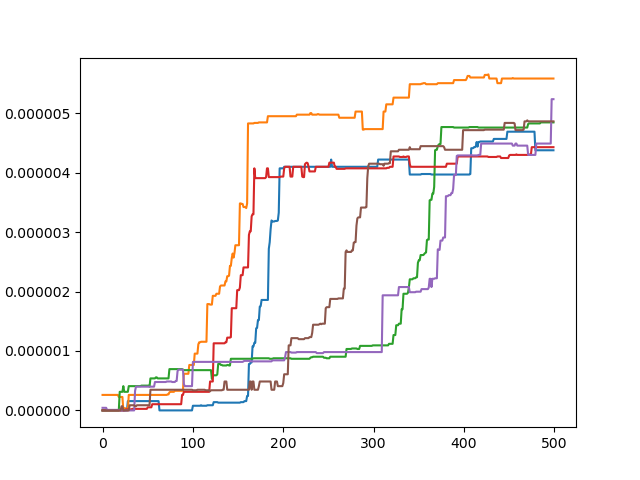
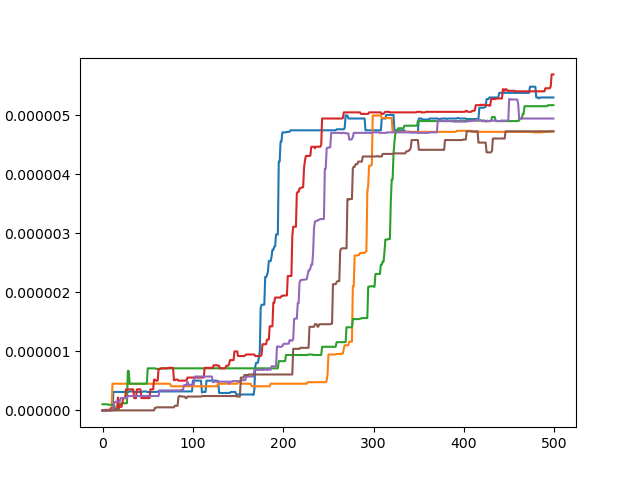
files

diff --git a/ba.tex b/ba.tex
@@ -1,4 +1,4 @@
-% Created 2019-10-18 Fr 21:05
+% Created 2019-10-18 Fr 22:23
 % Intended LaTeX compiler: pdflatex
 \documentclass[page,pdftex,12pt,a4paper,twoside,openright]{scrbook}
 \usepackage[utf8]{inputenc}
@@ -54,19 +54,21 @@
 
 
 \chapter{Einleitung \label{sec-einleitung}}
-\label{sec:orgdcfba1e}
+\label{sec:org86396b0}
 Durch den allgemeine Anstieg der Weltbevölkerung, den demographischen Wandel und die steigende Lebenserwartung wird eine Zunahme von Krankheiten wie Krebs oder Diabetes erwartet \cite{bray_global_2018,zhou_worldwide_2016}. Um dieser Entwicklung entgegen zu wirken, werden kostengünstige, patientennahe Diagnoseprozesse für die Individualmedizin entwickelt. So können bereits früh Krankheitsanzeichen und -ursachen entdeckt und bekämpft werden.
 
 Neuartigen Analysesystemen wie \emph{Lab-on-a-Chip} (LOC) werden deswegen großes Potential für Biomedizin und Medizindiagnostik in der Zukunft zugesprochen. Durch Miniaturisierung der Chips ergeben sich viele Vorteile \cite{stone_microfluidics_2001,knight_honey_2002}.
 Möglich sind unter anderem Biochips zur Analyse und Detektion von bestimmten Molekülen \cite{papadea_evaluation_2002}, Zellen (beispielsweise T-Zellen für die HIV/AIDS-Diagnostik \cite{cheng_microchip_2007}), Protein- und Molekülmarkern \cite{wang_self-powered_2010}, sowie DNA/RNA-Analysen (z.B. Identifizierung von resistenten Pathogenen \cite{boehme_rapid_2010}). Es können bereits geringe Probenvolumina innerhalb kürzester Zeit analysiert werden und es werden nur geringe Mengen von Reagenzien benötigt \cite{chin_commercialization_2012}. So können relativ kostengünstige Biochips und Analyseverfahren entwickelt werden, um zum Beispiel auch in Schwellen- und Entwicklungsländern die medizinische Versorgung zu verbessern. Ein wichtiger Bestandteil dieser LOCs ist Transport und Separation der Analyte innerhalb des Chips. Hier hat sich die Nutzung von magnetischen Partikeln bewährt. Verschiedene mikromagnetische Oberflächenstrukturierungen machen dabei den gezielten Transport der Partikel möglich \cite{rampini_micromagnet_2016}.  
 
 Das in der Arbeitsgruppe \textsc{Ehresmann} etablierte Transportkonzept von superparamagnetischen Partikeln (SPP) oberhalb magnetisch strukturierter \emph{Exchange-Bias} (EB) Dünnschichtsysteme kann hierbei ein wichtiger Bestandteil zukünftiger Analysesysteme werden. Die Grundidee ist es durch ein extern angelegtes Magnetfeld die magnetische Feldlandschaft (MFL) eines künstlichen Domänenmusters so zu transformieren, dass ein gerichteter Transport der SPP zwischen \emph{head-to-head} und \emph{tail-to-tail}-Domänenwänden möglich wird; dabei können diese SPP in verschiedenen Prozessschritten eines LOCs verwendet werden. Einerseits können Analyte, die an Partikel gebunden sind, in bestimmte Analysebereiche transportiert werden \cite{ehresmann_asymmetric_2011}, andererseits können aber auch Strömungsfelder durch den Partikeltransport erzeugt werden, welche die Analyten und Reagenzien durchmischen und so höhere biochemische Reaktionsraten bewirken \cite{holzinger_controlled_2012}. Ein weiteres Anwendungsgebiet ist die magnetophoretische Auftrennung der Partikel, um so verschiedene Partikelgrößen aufgrund unterschiedlicher magnetophoretischer Mobilitäten voneinander trennen zu können, damit zum Beispiel möglichst homogene Partikeldispersionen für Analysen erreicht werden können \cite{zhou_magnetic_2016}. Für jede dieser Anwendungen werden verschiedene Formen eines externen Magnetfeldes benötigt. Bisher wurden für den Partikeltransport trapezförmige Magnetfeldsequenzen mit konstanten Änderungsraten verwendet. In dieser Arbeit soll der Einfluss der Änderungsrate auf die Transportgeschwindigkeit und Trajektorie der Partikel genauer betrachtet werden, um Optimierungen bezüglich des Partikeltransports für das jeweilige Anwendungsgebiet möglich zu machen.
+Außerdem sollten in der Arbeitsgruppe entwickelte Auswertungs-\cite{holzinger_pythonscript_nodate} und Simulationsskripte \cite{holzinger_pythonscript_nodate-1} verwendet werden, um die Funktionalität dieser zu überprüfen. Es sollte auch ein neues Programm geschrieben werden, um die benötigten externen Magnetfeldsequenzen komfortabel generieren zu können. Während der Entwicklung dieses Programmes wurde deutlich, dass auch die Helmholtzspulen des Experimentaufbaus charakterisiert werden sollten, um zu überprüfen, wie genau diese mit den genäherten Annahmen der Theorie übereinstimmen.
+
 \chapter{Theoretische Grundlagen \label{sec-grundlagen}}
-\label{sec:orgf9f05db}
+\label{sec:orgf8fecb2}
 In diesem Kapitel soll das theoretische Hintergrundwissen, welches zum Verständnis dieser Arbeit benötigt wird, vermittelt werden. Dazu wird zunächst der Elektromagnetismus eingeführt. Anschließend wird die Verbindung zum Magnetismus in Materie hergestellt. Dann werden die in dieser Arbeit verwendeten \emph{Exchange Bias Systeme} eingeführt und im nächsten Teil wird schließlich der Transport von superparamagnetischen Partikeln über eben jene \emph{Exchange Bias Systeme} beschrieben, wobei die auf sie wirkenden Kräfte genauer betrachtet werden sollen.
 
 \section{Elektromagnetismus \label{sec-elektromagnetismus}}
-\label{sec:org420c26c}
+\label{sec:org4fe9030}
 Allgemein gilt, dass bewegte Ladungsträger (Ströme) ein Magnetfeld erzeugen. Fließt zum Beispiel ein Strom \(I\) durch einen langen geraden Draht, erzeugt dies ein kreisförmiges Magnetfeld. Entlang der Stromrichtung ergibt sich eine Rechtsschraube für das Magnetfeld B. Eine Spule besteht aus mehreren Windungen stromdurchflossenen Drahtes und erzeugt so durch Überlagerung ein Magnetfeld ähnlich eines Stabmagneten mit Nord- und Südpol. Die Magnetische Flussdichte \(B\) im Vakuum hängt dabei von Stromstärke \(I\) und Windungsdichte \(n = \frac{N}{L}\) (Windungen pro Länge) ab. Hierbei ist \(\mu_\mathrm{0}\) die magnetische Feldkonstante \cite{demtroder_experimentalphysik_2017}:
 
 \begin{equation}
@@ -75,7 +77,7 @@ B = \mu_{\mathrm{0}} \cdot n \cdot I .
 \end{equation}
 
 \subsection{Helmholtzspulen}
-\label{sec:org6cec4da}
+\label{sec:org123a77a}
 Für den Partikeltransport wird ein äußeres magnetisches Feld mit Hilfe von Helmholtzspulen erzeugt. Eine Helmholtzspule besteht aus zwei parallelen Ringspulen in Reihe. Diese erzeugen ein homogenes Magnetfeld in ihrem Inneren, wenn die Helmholtz-Bedingung erfüllt ist, d.h. Radius und Abstand der Teilspulen gleich sind. Die Flussdichte dieses Magnetfeldes hängt in Näherung von der Stromstärke \(I\), der Windungszahl pro Spule \(N\) und dem Radius einer einzelnen Spule \(r\) ab \cite{raith_elektromagnetismus_2006}: 
 
 \begin{equation}
@@ -84,7 +86,7 @@ B = \left(\frac{4}{5}\right)^{\frac{3}{2}} \cdot \mu_{\mathrm{0}} \cdot \frac{N 
 \end{equation}
 
 \section{Spulen als elektrische Bauteile \label{sec-spulen}}
-\label{sec:org5ba1f31}
+\label{sec:org8bf5948}
 Beim Anlegen einer Spannung an eine Spule, wird innerhalb dieser eine Gegenspannung induziert. Hierbei ist die induzierte Spannung
 
 \begin{equation}
@@ -137,7 +139,7 @@ Der Abschaltvorgang ist in Abbildung \ref{fig-abschalten} abgebildet.
 \end{figure}
 
 \section{Magnetismus in Materie \label{sec-magnetismus}}
-\label{sec:org040b997}
+\label{sec:org12d1271}
 Wie bereits in Kapitel \ref{sec-elektromagnetismus} erläutert, erzeugen bewegte Ladungen Magnetfelder. Eine solche bewegte Ladung ist auch das Elektron, das in einer vereinfachten Vorstellung um den Atomkern kreist. Folglich besitzen Atome ein magnetisches Moment \(\mu\), welches abhängig ist von der umkreisten Fläche \(A\) und dem Kreisstrom des Elektrons \(I\) \cite{kassing_bergmann_2005}:
 
 \begin{equation}
@@ -178,7 +180,7 @@ Festkörper können in Folge der mikroskopischen Ursachen bezüglich ihres Magne
 Im Folgenden soll näher auf diese Klassifizierungen eingegangen werden.
 
 \subsection{Dia- und Paramagnetismus \label{sec-dia-und-para}}
-\label{sec:orge529e5b}
+\label{sec:org298703c}
 Diamagnetismus ist ein magnetischer Effekt in jeglicher Materie, welcher durch induzierte magnetische Momente auftritt. In einem externen Magnetfeld wird im Atom ein magnetisches Moment induziert, welches dem induzierenden Magnetfeld entgegen wirkt (Lenzsche Regel). Ein Festkörper wird als diamagnetisch bezeichnet, wenn ohne äußeres magnetisches Feld keine magnetischen Momente vorliegen. Vor allem abgeschlossene äußere Elektronenschalen tragen zum diamagnetischen Effekt eines Atoms bei. Die Spin- und Bahnmomente der gepaarten Elektronen heben sich in Summe auf. Diamagnetische Materialien haben eine negative Suszeptibilität und werden aus dem externen Magnetfeld heraus gedrängt \cite{gross_festkorperphysik_2012}.
 
 \begin{equation}
@@ -201,7 +203,7 @@ Legt man ein äußeres Magnetfeld an, richten sich die magnetischen Momente nach
 \end{equation}
 
 \subsection{Ferromagnetismus \label{sec-ferro}}
-\label{sec:org9c46c75}
+\label{sec:org367ba02}
 Beeinflussen sich die einzelnen magnetischen Momente gegenseitig, sind sie also gekoppelt, kann das System einen magnetisch geordneten Zustand einnehmen. Dieser geordnete Zustand unterliegt jedoch einer Temperaturabhängigkeit. Eine Ursache für das Vorliegen von kollektivem Magnetismus ist die quantenmechanische \textbf{Austausch-Wechselwirkung} \cite{kassing_bergmann_2005}.
 
 Die Suszeptibilität ferromagnetischer Materialien ist um bis zu mehrere Größenordnungen größer als bei paramagnetischen Materialien \cite{demtroder_experimentalphysik_2017}.
@@ -242,16 +244,16 @@ Beim Ausrichten der magnetischen Dipole in einem ferromagnetischen Stoff wird En
 Der Festkörper kann seine ferromagnetischen Eigenschaften verlieren, wenn er über eine bestimmte, für das Material charakteristische, Temperatur \(T_\mathrm{C}\), die \textbf{Curie-Temperatur} erhitzt wird. Die Wärmebewegung zerstört dann die magnetische Ausrichtung der Dipole und der Stoff zeigt nur noch paramagnetisches Verhalten \cite{demtroder_experimentalphysik_2017}.
 
 \subsection{Antiferromagnetismus \label{sec-antiferro}}
-\label{sec:org814a56e}
+\label{sec:org87f2a40}
 In einem Antiferromagneten liegen zwei ineinander gestellte Untergitter im Kristallgitter vor. Die magnetischen Momente jener Untergitter zeigen jeweils in entgegengesetzte Richtungen und haben den gleichen Betrag. Somit heben sie sich insgesamt auf und es ist keine makroskopische Magnetisierung sichtbar. Oberhalb der \textbf{Néel-Temperatur} \(T_\mathrm{N}\), dem Analogon zur Curie-Temperatur, geht der Festkörper in den paramagnetischen Zustand über \cite{demtroder_experimentalphysik_2017}. 
 
 \subsection{Superparamagnetismus}
-\label{sec:orgac5d500}
+\label{sec:org047f970}
 Ist das Volumen eines ferromagnetischen Festkörpers so gering, dass er nur aus einer einzelnen Domäne besteht, spricht man von Superparamagnetismus. Die Suszeptibilität solcher Superparamagneten ist größer als die Suszeptibilität von Paramagneten, jedoch verhalten sie sich ohne äußeres Magnetfeld ähnlich, da die Magnetisierung in solchen einzelnen Domänen nicht thermisch stabil ist und sich beliebig ausrichten kann \cite{gross_festkorperphysik_2012}.
 Jedoch ist die Zeitskala des Experiments, und ob in dieser thermische Aktivierungs- und Relaxationsprozesse statt finden können, wichtig, um Aussagen über das magnetische Verhalten eines Partikels machen zu können. Bei ausreichend großen Zeitskalen wird über die durch thermische Energie unterschiedlichen magnetischen Momente gemittelt und man erhält insgesamt keine Magnetisierung. Wird jedoch sehr kurz gemessen, kann eine Richtung der Magnetisierung für diesen kurzen Zeitausschnitt bestimmt werden \cite{leslie-pelecky_magnetic_1996}.
 
 \section{Exchange Bias Effekt \label{sec-EB}}
-\label{sec:org8ef392f}
+\label{sec:org4ac3178}
 Der \emph{Exchange Bias} (EB) Effekt  wurde 1956 von \textsc{Meiklejohn} und \textsc{Bean} an oxidierten \ce{Co}-Partikeln entdeckt. Diese Partikel bestehen im Kern aus Cobalt, einem Ferromagneten, und besitzen eine äußere dünne \ce{CoO}-Schicht, welche antiferromagnetisch ist. Die Autoren entdeckten eine Verschiebung der Hysteresekurve um das sogenannte Austauschverschiebungsfeld \(H_\mathrm{EB}\). Diese Beobachtung kann durch den Austauschverschiebungseffekt (engl. \emph{exchange bias}) erklärt werden. Dieser tritt an der Grenzfläche zwischen antiferromagnetischer (AF) und ferromagnetischer (F) Schicht auf, wenn die Partikel innerhalb eines externen Magnetfeldes unter die Néel-Temperatur der antiferromagnetischen Schicht gekühlt wurden. \cite{meiklejohn_new_1957}.
 
 
@@ -285,7 +287,7 @@ Schematische Darstellung der ferromagnetischen Hysteresekurve eines EB-Systems i
 Durch Helium-Ionenbeschuss kann der EB-Effekt eines Schichtsystems verändert werden. So kann zum Beispiel die Richtung des Austauschverschiebungsfeldes lokal umgekehrt werden \cite{mougin_local_2001}. Hierzu kann eine Schattenmaske mittels Lithographie auf die Probe gebracht werden, um anschließend lokal das Eindringen von Ionen zu verhindern. Dies ermöglicht die magnetische Strukturierung von EB-Systemen, zum Beispiel in einer \emph{in-plane} Anisotropie, welche zu \emph{head-to-head} und \emph{tail-to-tail}-Domänenwänden in einer Streifenstruktur führt, womit wiederum Transport von superparamagnetischen Partikeln realisiert werden kann \cite{holzinger_directed_2015}.
 
 \section{Partikeltransport \label{sec-partikeltransport}}
-\label{sec:orgaa3d711}
+\label{sec:orgc017b11}
 Superparamagnetische Partikel (SPP) lassen sich durch Verwendung von den zuvor beschriebenen streifenstrukturierten (hh und tt) EB-Systemen in kontrollierten Abständen zum Substrat und in geordneter Reihenform transportieren. Dabei setzt sich das effektive Magnetfeld, das die Partikel erfahren, aus der Magnetfeldlandschaft des Exchange-Bias Systems und dem externen Magnetfeld zusammen \cite{holzinger_directed_2015}:
 
 \begin{equation}
@@ -342,10 +344,10 @@ Schematische Darstellung der wirkenden Kräfte auf ein superparamagnetisches Par
 \end{figure}
 
 \chapter{Experimentelle Methoden \label{sec-methoden}}
-\label{sec:org6a57fcc}
+\label{sec:orgca90c4e}
 
 \section{Experimenteller Aufbau \label{sec-aufbau}}
-\label{sec:orgc25a861}
+\label{sec:org427ada4}
 
 Um den Transport von superparamagnetischen Partikeln über das Substrat zu realisieren und zu beobachten, wurde der Versuchsaufbau, der in Abbildung \ref{img-aufbau} zu sehen ist, verwendet.
 
@@ -375,7 +377,7 @@ z & \num{330} & \num{0,030} & \num{11,5} & \num{70} & \num{5,6}\\
 Bei den Versuchen in dieser Arbeit wurden nur zwei der drei Helmholtzspulen verwendet. Dabei handelte es sich um die Spulen für die x- und z-Richtung. Die Partikel wurden in einer mikrofluidischen Zelle auf den Proben platziert, um dann untersucht werden zu können. Hierfür wird Parafilm zuerst in Größe der Probe zurecht geschnitten, und dann ein Rechteck im Inneren des Parafilms ausgeschnitten. So entsteht eine Aussparung in der Mitte, in die circa \SI{10}{\micro\litre} Partikelsuspension gegeben werden. Anschließend wird die Probe auf dem Probentisch platziert, die LED eingeschaltet, und die Kamera mittels Livebild auf die Partikel fokussiert.
 
 \section{Programm zur Erstellung von Magnetfeldsequenzen \label{sec-py}}
-\label{sec:org71169ee}
+\label{sec:org97dc9dc}
 Um die in dieser Arbeit benötigten externen Magnetfelder zu erzeugen, wurde ein neues Programm in Python entwickelt, mit dessen Hilfe verschiedene Wellenformen als Magnetfeld ausgegeben werden können. Hierbei stand ein modularer Ansatz im Vordergrund, weshalb durch einfache Änderungen am Programmcode andere Geräte im Aufbau verwendet werden können. So kann zum Beispiel ein anderes Netzteil verwendet werden, um dann auch drei Helmholtzspulen für Magnetfelder in drei Dimensionen anzusteuern. Ziel war es sowohl sinus- und rechteckförmige Magnetfelder, als auch die für diese Arbeit benötigten trapezförmigen Magnetfelder erzeugen zu können. Dabei ist es möglich jeden Parameter der Wellenform zu ändern, und die Magnetfeldsequenzen als Plot dargestellt zu sehen. Abbildung \ref{fig-prog} zeigt einen Screenshot der graphischen Benutzeroberfläche des Programms.
 
 Mit der in dieser Arbeit entwickelten ersten Version des Programms ist es bisher nur möglich, die Spannungsausgabe des DAQ-Gerätes an das jeweilige verwendete Netzteil zu steuern und anzuzeigen. In Zukunft soll es jedoch möglich sein bereits das entstehende Magnetfeld im Programm auszuwählen und angezeigt zu bekommen. Hierzu wurden zunächst die verwendeten Spulen und das Netzteil charakterisiert (siehe Kapitel \ref{sec-stromundmagnet}).
@@ -388,7 +390,7 @@ Screenshot des entwickelen Programms zur Erstellung von beliebigen Magnetfeldseq
 \end{figure}
 
 \section{Zeitabhängige Messung von Strom und magnetischer Flussdichte \label{sec-stromundmagnet}}
-\label{sec:orga7f5d16}
+\label{sec:orgf32419a}
 Um das Verhalten der im Experiment verwendeten Helmholtzspulen nachvollziehen zu können und um die gegebenen technischen Daten und Modelle zu Überprüfen, wurden Messungen des Magnetfeldes und des Stromes an eben jenen Spulen durchgeführt.
 
 Hierfür wurde einerseits der zeitliche Verlauf der Stromstärke in der Spule gemessen, um Induktivität und ohmschen Widerstand zu überprüfen. Es wurde ein Keramikwiderstand in Reihe mit der zu messenden Helmholtzspule angebracht. Über diesem Messwiderstand \(R\) wurde nun die Spannung \(U\) gemessen, indem eine NI USB-6002 Box (im folgenden \emph{DAQ} für \emph{Data Acquisition}) parallel dazu angeschlossen wurde. Dieses DAQ-Gerät besitzt eine maximale Samplerate von \SI{50000}{\per\s} und eine Bittiefe von 16-bit am \emph{Analog Input} (AI). Damit ist dieses Gerät hinreichend geeignet für Erfassung der Messdaten. Mithilfe des Ohmschen Gesetzes lässt sich so der Strom \(I\), der durch den bekannten Messwiderstand \(R\) fließt, berechnen. Da Spule und Messwiderstand in Reihe geschaltet sind, fließt durch beide die selbe Stromstärke.
@@ -405,7 +407,7 @@ Um den zeitlichen Verlauf der magnetischen Flussdichte zu messen, wurde der Mess
 Die Aufzeichnung der Daten des DAQ-Gerätes erfolgte für beide Messungen mittels eines selbst geschriebenen Python-Scriptes (siehe Anhang \ref{anh-messung}).
 
 \chapter{Ergebnisse und Diskussion \label{sec-ergebnisse}}
-\label{sec:orgaf8dfa0}
+\label{sec:org0daa0a0}
 Allgemein kann die Auswertung in zwei Teile unterteilt werden.
 Zu Beginn der Auswertung wird in Kapitel \ref{sec-b_helmholtz} auf Messungen von Stromstärke und magnetischer Flussdichte an den im Experiment verwendeten Helmholtzspulen eingegangen. Diese Messungen werden zum einen benötigt um das Programm zur Erstellung von Magnetfeldsequenzen zukünftig sinnvoll weiter entwickeln zu können. Weiterhin ist die Kentniss über den realen zeitlichen Verlauf der angelegten Magnetfeldsequenzen wichtig, um die Simulationen und Vorhersagen aus dem theoretischen Modell zum Partikeltransport einordnen, diskutieren und möglicherweise optimieren zu können. Es wurden sowohl statische Messungen der Amplitude der magnetischen Flussdichte als auch der zeitliche Verlauf der magnetischen Flussdichte in Abhängigkeit der Stromstärke durchgeführt.
 
@@ -419,7 +421,7 @@ Zusammensetzung der verwendeten Schichtsysteme. Die obere Siliziumschicht wurde 
 \end{figure}
 
 \section{Stromstärke und magnetische Flussdichte der Helmholtzspulen \label{sec-b_helmholtz}}
-\label{sec:org176ad96}
+\label{sec:orgd2df0cd}
 Um die verwendeten Helmholtzspulen näher charakterisieren zu können, wurde zunächst der Zusammenhang zwischen der am Netzteil angelegten Spannung und der die Spulen durchfließenden Stromstärke sowie der daraus resultierenden magnetischen Flussdichte bestimmt.
 
 Zuerst wurde der Zusammenhang zwischen den Amplituden der Stromstärke \(I\) und magnetischen Flussdichte \(B\) gemessen. Dabei wurde die Stromstärke an einem in Reihe geschalteten Multimeter abgelesen, die magnetischen Flussdichte an einem Teslameter der Firma \emph{Projekt Elektronik GmbH}, dessen Messkopf sich in der Probenhalterung der Helmholtzspulen zur Messung des Magnetfeldes in z-Richtung befand. Die Messwerte sind in Tabelle \ref{tab-B} im Anhang dargestellt. Der Zusammenhang von Stromstärke und magnetischer Flussdichte sollte gemäß Gleichung \ref{eq-spule} linear sein, weshalb die Messwerte in Abbildung \ref{fig-magnetfeldstrom} durch eine lineare Regression angenähert wurden.
@@ -533,7 +535,7 @@ Zeitlicher Verlauf der magnetischen Flussdichte der z-Spule der gemittelten Peri
 \end{figure}
 
 \section{Partikeltransport \label{sec-partikelgeschwindigkeiten}}
-\label{sec:org1b4ffba}
+\label{sec:orgd4cba45}
 Um aus den aufgenommen Videos aus dem Partikeltransportexperiment die Trajektorien und Partikelgeschwindigkeiten zu erhalten, wird das Programm \emph{VideoSpotTracker} verwendet. Hierzu wurden möglichst alle sich bewegenden Partikel als \emph{"`dark spot"'} mit der Größe 3 ausgewählt, und dann mittels \emph{"`follow jumps"'} die x- und z-Positionen der einzelnen Partikel in Pixel verfolgt und in einer csv-Datei aufgezeichnet (siehe Abbildung \ref{fig-videospottracker}). Da die Größe eines Pixels (\SI{278}{\nano\meter}) sowie die Framerate (1000 FPS) und somit die Zeit bekannt sind, lässt sich so die Durchschnittsgeschwindigkeit der Partikel berechnen. Bewegungen in y-Richtung sind unter anderem durch ein nicht genau orthogonal zur Streifenstruktur anliegendes Magnetfeld der x-Spule zu erklären.
 
 \begin{figure}[h]
@@ -562,7 +564,7 @@ Man erkennt deutlich eine Abflachung des großen Transportschrittes für Magnetf
 \centering
 \includegraphics[width=\textwidth]{./img/sim.png}
 \caption{\label{fig-traj}
-Vergleich simulierter (oben) Trajektorien mit gemessenen (unten) Trajektorien der superparamagnetischen Partikel. Die Plateaustartzeiten der Magnetfelder steigen von links nach rechts. Die Farben der Kurven entsprechen den Farben der Kurve der verwendeten Plateaustartzeiten aus Abbildung \ref{fig-plateau}. Da zunächst nur die Form der Trajektorie, nicht aber die Länge des Schrittes von Bedeutung ist, wurden die Kurven normiert.}
+Vergleich simulierter (oben) Trajektorien mit gemessenen (unten) Trajektorien der superparamagnetischen Partikel. Die x-Position wurde ausgehend von der Startposition des Partikels dargestellt. Die Plateaustartzeiten der Magnetfelder steigen von links nach rechts. Die Farben der Kurven entsprechen den Farben der Kurve der verwendeten Plateaustartzeiten aus Abbildung \ref{fig-plateau}. Da zunächst nur die Form der Trajektorie, nicht aber die Länge des Schrittes von Bedeutung ist, wurden die Kurven normiert.}
 \end{figure}
 
 
@@ -592,15 +594,18 @@ Betrag der Magnetfeldvektoren. Die angelegten Magnetfeldsequenzen sind in blau u
 \end{figure}
 
 \chapter{Zusammenfassung und Ausblick \label{sec-zusammenfassung}}
-\label{sec:org81c3e44}
-Ziel dieser Arbeit war es, den Einfluss der Änderungsrate der externen Magnetfelder auf den Partikeltransport zu untersuchen. Um dies zu erreichen, waren zuvor einige zusätzliche Untersuchungen von Nöten. Zunächst wurden die im Experiment verwendeten Helmholtzspulen charakterisiert, und überprüft ob das real erzeugte Magnetfeld der Spulen mittels Gleichungen vorhergesagt werden kann. Es konnte gezeigt werden, dass zwar die endgültige magnetische Flussdichte korrekt berechnet werden kann, der Einschaltvorgang der Spulen kann jedoch aufgrund von komplexeren Vorgängen und verwendeten Geräten nicht mathematisch beschrieben werden. Dies wirkt sich auch auf die Simulationen aus, welche durchgeführt werden, um die Partikelgeschwindigkeiten und -trajektorien bereits im Voraus zu berechnen. Diese Simulationen verwenden idealisierte Magnetfeldsequenzen und EB-Systeme. Trotzdem ist es durchaus möglich die Trajektorien der Partikel zu berechnen, und so schon im Voraus die Notwendigkeit der Herstellung bestimmter EB-Schichtsysteme zu prüfen.
+\label{sec:org1f228fa}
+Ziel dieser Arbeit war es, den Einfluss der Änderungsrate der externen Magnetfelder auf den Partikeltransport zu untersuchen. Um dies zu erreichen, waren zuvor einige zusätzliche Untersuchungen von Nöten. Zunächst wurden die im Experiment verwendeten Helmholtzspulen charakterisiert, und überprüft ob das real erzeugte Magnetfeld der Spulen mittels Gleichungen vorhergesagt werden kann. Es konnte gezeigt werden, dass zwar die endgültige magnetische Flussdichte korrekt berechnet werden kann, der Einschaltvorgang der Spulen kann jedoch aufgrund von komplexeren Vorgängen und wegen der verwendeten Geräte nicht mathematisch beschrieben werden. Dies wirkt sich auch auf die Simulationen aus, welche durchgeführt werden, um die Partikelgeschwindigkeiten und -trajektorien bereits im Voraus zu berechnen. Diese Simulationen verwenden idealisierte Magnetfeldsequenzen und EB-Systeme. Trotzdem ist es durchaus möglich die Trajektorien der Partikel zu berechnen, und so schon im Voraus die Notwendigkeit der Herstellung bestimmter EB-Schichtsysteme zu prüfen. Letztendlich ist es von Vorteil eine niedrigere Änderungsrate des Magnetfeldes zu verwenden, wenn näher am Modell gearbeitet werden soll, da hier der Einschaltvorgang langsamer stattfindet. Beispielsweise wäre dies denkbar, wenn einzelne Partikel lokal als "`Sonden"' verwendet werden sollen, um die Streifenstruktur des EB-Systems zu charakterisieren. Hier muss die Trajektorie der Partikel möglichst genau mit der Theorie übereinstimmen, um auf etwaige Anomalien in dem Magnetisierungszustand der Domänen zurück rechen zu können. Dies würde auch langsamere Partikelgeschwindigkeiten bedeuten, was wiederum eine höhere örtliche Auflösung bei gleicher zeitlicher Auflösung bedeutet.
 
-Auch wenn es nur ein kleiner Teil dieser Arbeit war, wird durch die Entwicklung des neuen Programms zur Erstellung der Magnetfeldsequenzen in Zukunft einfacher sein, verschiedene Magnetfeldsequenzen und deren Auswirkung auf den Partikeltransport zu Untersuchen. Es ist zum Beispiel möglich verschiedene Frequenzmodulationen zu erstellen, und deren Auswirkungen zu untersuchen.
+Auch wenn es nur ein kleiner Teil dieser Arbeit war, wird durch die Entwicklung des neuen Programms zur Erstellung der Magnetfeldsequenzen in Zukunft einfacher sein, verschiedene Magnetfeldsequenzen und deren Auswirkung auf den Partikeltransport zu Untersuchen. Es ist zum Beispiel möglich verschiedene Frequenzmodulationen zu erstellen, und deren Auswirkungen zu untersuchen. Durch die objektorientiere Programmierung des Programms, ist es außerdem erleichtert worden den Experimentaufbau zu erweitern oder verschiedene Komponenten zu tauschen.
 Ein weiterer Vorteil ist, dass es voraussichtlich möglich ist, die Aufnahme der Kamera mit eben jenem Programm zur Ausgabe der Magnetfeldsequenzen bereits zu starten. Somit sind Video und Magnetfeldsequenz bereits synchronisiert, und mit einem Mausklick können Magnetfeldsequenzen und Aufnahme gleichzeitig gestartet werden. Hier gab es jedoch aufgrund von veralteter Hardware noch Probleme mit der Implementierung.
+
+Diese Arbeit war eine der ersten, die das Auswertungsskript \cite{holzinger_pythonscript_nodate} in einer überarbeiteten Version verwendet hat. Es konnte gezeigt werden, dass die Geschwindigkeit aus den Videoaufnahmen sehr effizient und zuverlässig bestimmt werden konnte. Es steht in Aussicht, dass ein eigens für den Partikeltransport optimiertes Partikeltracking-Programm entwickelt wird. Dieses könnte dann direkt mit dem Auswertungsskript verbunden werden, um so innerhalb kürzester Zeit aus dem aufgenommenen Video direkt die Partikelgeschwindigkeiten zu erhalten.
+Außerdem wurde die Validität der in dem Simulationsskript \cite{holzinger_pythonscript_nodate-1} verwendeten Modelle geprüft, und gezeigt, dass die tatsächlich gemessenen Trajektorien denen aus der Simulation sehr ähnlich sind, und durchaus erste Einschätzungen bezüglich des Verhaltens der Partikel getätigt werden können. So kann bereits im Voraus bestimmt werden, welche Partikel und EB-Schichtsysteme interessant für nähere Untersuchungen wären.
 \chapter{Anhang}
-\label{sec:org9a089e5}
+\label{sec:org33e7da8}
 \section{Messwerte}
-\label{sec:org9924fc3}
+\label{sec:orgb3de0eb}
 \begin{table}[htbp]
 \caption{\label{tab-B}
 Zusammenhang zwischen magnetischer Flussdichte und Stromstärke. Hierbei wurde die Spannung an dem DAQ-Gerät \(U_\mathrm{B}\) erhöht und dazugehörige Stromstärke am Netzteilausgang \(I\) und magnetische Flussdichte im inneren der z-Spule \(B_\mathrm{z}\) gemessen.}
@@ -632,7 +637,7 @@ U\textsubscript{DAQ}~[\si{\volt}] & I~[\si{\ampere}] & B\textsubscript{z}~[\si{\
 \end{table}
 
 \section{Python-Script zur Messung von Stromstärke und magnetischer Flussdichte: \label{anh-messung}}
-\label{sec:org31ad839}
+\label{sec:orge5ce9d4}
 \begin{minted}[]{python}
 """ Measure magnetic fieldstrength with NI USB-6002 """
 import numpy as np
@@ -677,14 +682,14 @@ if __name__ == "__main__":
     plt.show()
 \end{minted}
 \section*{}
-\label{sec:org106ed1d}
+\label{sec:org8e111b9}
 \printbibliography
 
 \chapter*{Danksagung}
-\label{sec:orgc1bd8fb}
+\label{sec:org718fc19}
 Danke.
 
 \chapter*{Eigenständigkeitserklärung}
-\label{sec:orgc3fb93a}
+\label{sec:org2acb9c4}
 Hiermit bestätige ich, dass ich die vorliegende Arbeit selbständig verfasst und keine anderen als die angegebenen Hilfsmittel benutzt habe. Die Stellen der Arbeit, die dem Wortlaut oder dem Sinn nach anderen Werken (dazu zählen auch Internetquellen) entnommen sind, wurden unter Angabe der Quelle kenntlich gemacht. \\
 \end{document}
